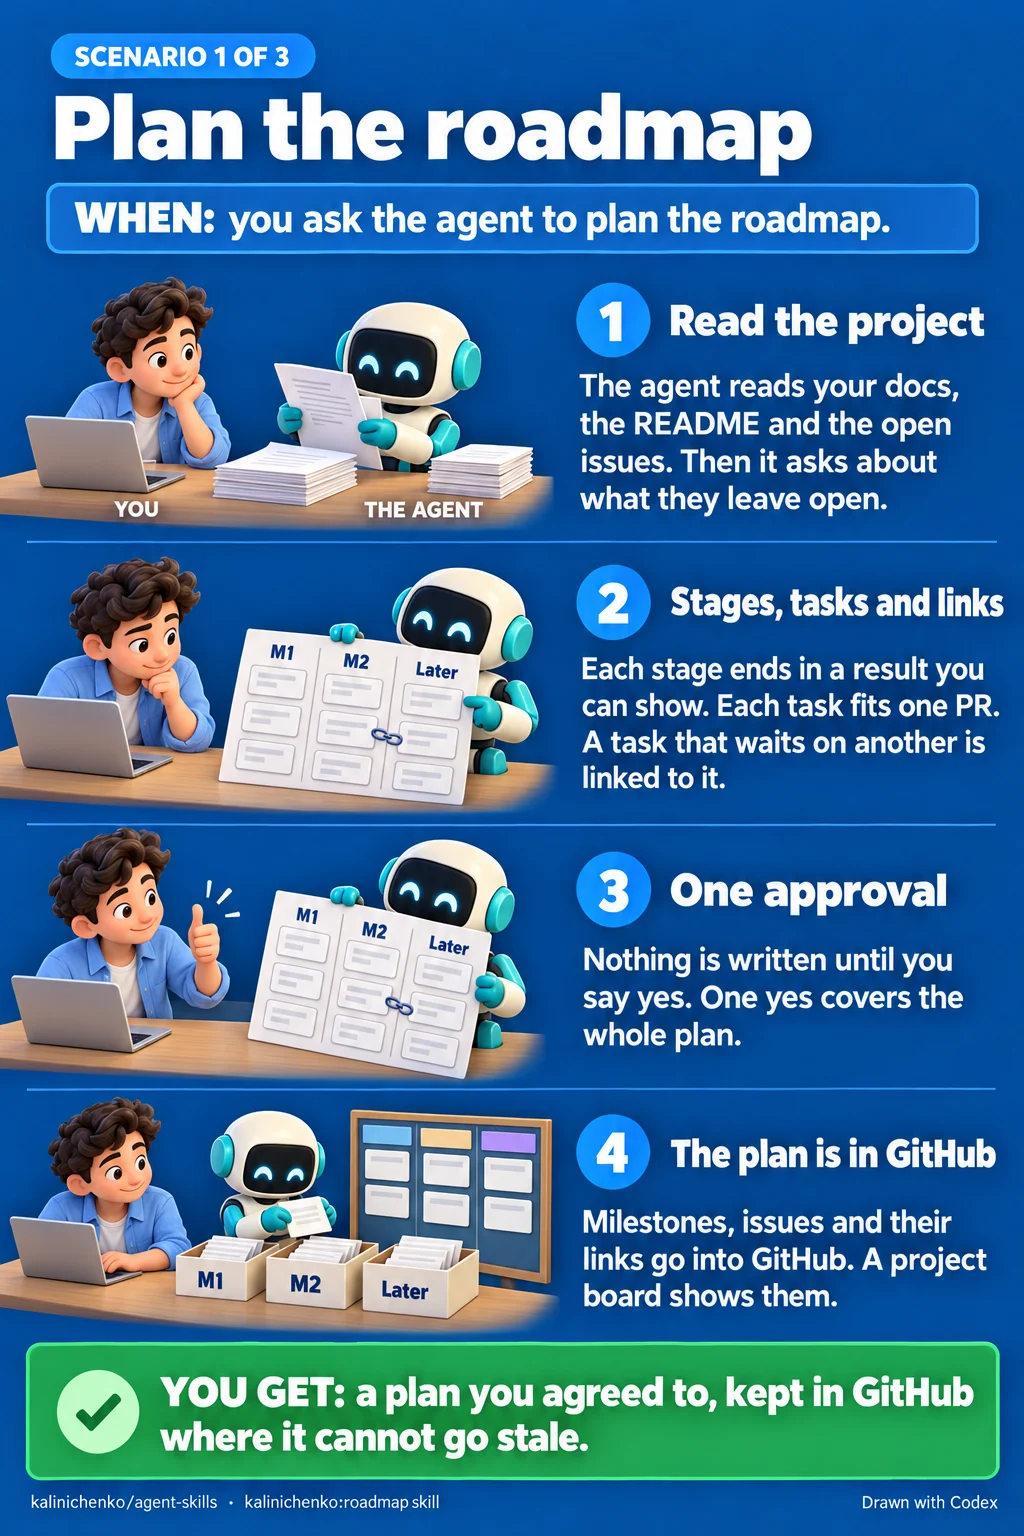
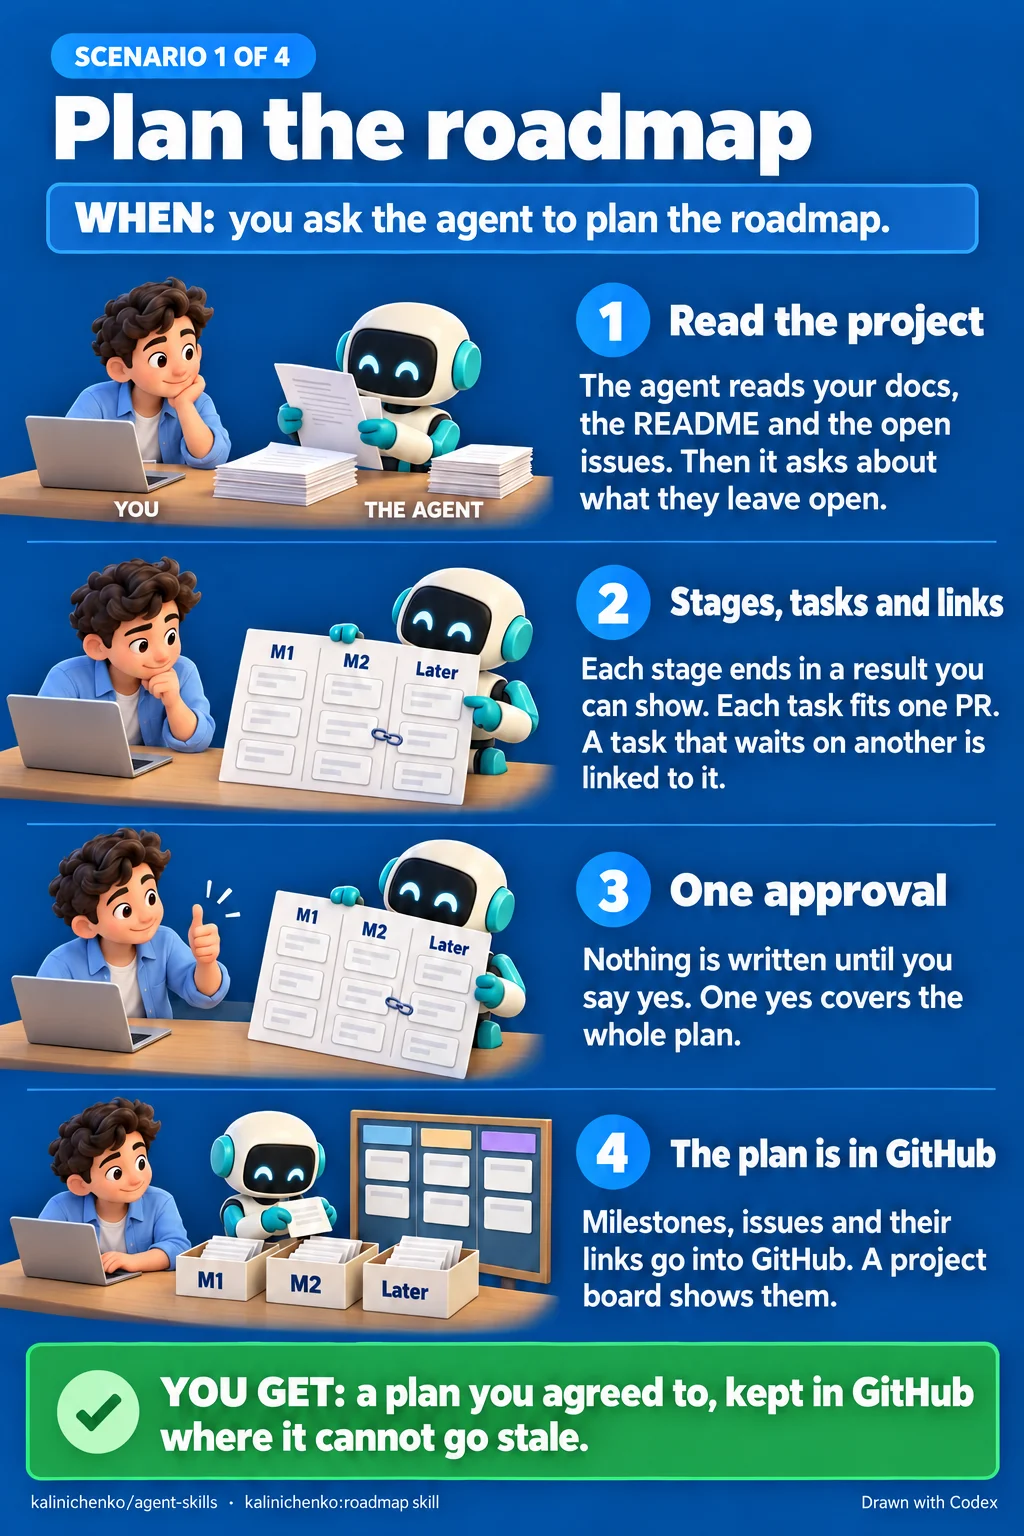
docs(roadmap): draw the triage scenario picture, and number the scenarios out of four (#111)
- Add the 04-triage scenario picture and its brief block
- Change the labels of 01-plan, 02-next and 03-close to "OF 4"
- Show the triage picture under its own heading in the roadmap README
- Promise a label to each open issue and a milestone only to a confirmed one

diff --git a/docs/roadmap/brief.md b/docs/roadmap/brief.md
@@ -30,7 +30,7 @@ Bottom line, small: "Also: a task that can wait moves to Later, and a project bo
 
 <image file="01-plan.png">
 Canvas: portrait, the largest portrait size the tool offers (at least 1024x1536).
-Header: label "SCENARIO 1 OF 3", title "Plan the roadmap".
+Header: label "SCENARIO 1 OF 4", title "Plan the roadmap".
 Trigger box: "WHEN: you ask the agent to plan the roadmap."
 1. "Read the project" — THE AGENT reads a stack of blank documents on the desk; YOU watch. Caption: "The agent reads your docs, the README and the open issues. Then it asks about what they leave open."
 2. "Stages, tasks and links" — THE AGENT shows YOU a large sheet with three columns labelled "M1", "M2" and "Later", blank tickets in each, and two tickets joined by a short chain. Caption: "Each stage ends in a result you can show. Each task fits one PR. A task that waits on another is linked to it."
@@ -41,7 +41,7 @@ Result box: "YOU GET: a plan you agreed to, kept in GitHub where it cannot go st
 
 <image file="02-next.png">
 Canvas: portrait, the largest portrait size the tool offers (at least 1024x1536).
-Header: label "SCENARIO 2 OF 3", title "Pick the next task".
+Header: label "SCENARIO 2 OF 4", title "Pick the next task".
 Trigger box: "WHEN: you ask \"What can I take now?\" or what can run in parallel." (keep the double quotation marks around the question)
 1. "Only free tasks" — THE AGENT sorts blank tickets: tickets with a small padlock or a name tag go to one side, plain ones stay in front. Caption: "Not assigned, no open PR, not blocked by an open issue. Other people's work is never offered."
 2. "Main path first" — THE AGENT lines up blank tickets in a row, the first one the largest. Caption: "The current milestone comes first. Then the tasks that more issues wait on, then the oldest."
@@ -52,13 +52,24 @@ Result box: "YOU GET: the right task to take now, and the tasks that can run bes
 
 <image file="03-close.png">
 Canvas: portrait, the largest portrait size the tool offers (at least 1024x1536).
-Header: label "SCENARIO 3 OF 3", title "Close a milestone".
+Header: label "SCENARIO 3 OF 4", title "Close a milestone".
 Trigger box: "WHEN: you ask \"What is left to close M1?\"" (keep the double quotation marks around the question)
 1. "What is left?" — THE AGENT takes a short column of blank tickets out of box "M1": one with a green dot, one with a name tag, one with a small padlock. Caption: "The open tasks of M1 in the order they must be done: free, in progress, or blocked and by what."
 2. "Can it wait? Later." — YOU nod; THE AGENT moves ticket "#30" from box "M1" into box "Later". Caption: "When you agree, the task moves to Later. If a planned task still waits on it, the agent names it and asks you."
 3. "M1 is done" — box "M1" has a large green check; THE AGENT closes its lid. Caption: "When no task is left, the agent offers to close the milestone. You decide."
 4. "Plan the next stage" — THE AGENT opens box "M2" and puts new blank tickets in it; YOU give a thumbs-up. Caption: "M2 is planned again from what M1 taught. One approval, as at the start."
 Result box: "YOU GET: a clear path to the end of M1, and the next stage ready when it closes."
+</image>
+
+<image file="04-triage.png">
+Canvas: portrait, the largest portrait size the tool offers (at least 1024x1536).
+Header: label "SCENARIO 4 OF 4", title "Triage new issues".
+Trigger box: "WHEN: you ask the agent to triage the new issues."
+1. "Which issues are new?" — THE AGENT takes three tickets, "#36", "#37" and "#38", out of a tray labelled "New"; the tickets have no tags; YOU watch. Caption: "Open issues with no label or no milestone. Nobody has checked their reports yet."
+2. "Duplicates close first" — THE AGENT clips ticket "#37" behind ticket "#36" and puts a grey stamp with no text on "#37". Caption: "#37 is the same report as #36. It closes, and what it adds is copied to #36."
+3. "A verdict for each" — THE AGENT looks at ticket "#36" through a large magnifying glass; beside it, ticket "#38" has a small speech bubble with "?"; YOU watch from the laptop. Caption: "The agent tries to reproduce each report or to find it in the code. A false one closes; an unclear one gets a question."
+4. "Label and milestone" — YOU give a thumbs-up; THE AGENT puts ticket "#36", with a small tag "bug", into box "M1"; ticket "#38" waits beside the box. Caption: "A confirmed issue goes into the milestone its importance asks for. One approval, then it all goes into GitHub."
+Result box: "YOU GET: every new issue checked, each open one labelled, and each confirmed one in a milestone."
 </image>
 
 <verification_loop>

diff --git a/skills/roadmap/README.md b/skills/roadmap/README.md
@@ -59,6 +59,10 @@ run in parallel, and what is left to close a milestone.
 
 ![Close a milestone: you get a clear path to the end of M1, and the next stage ready when it closes](../../docs/roadmap/03-close.webp)
 
+### Triage new issues
+
+![Triage new issues: you get every new issue checked, each open one labelled, and each confirmed one in a milestone](../../docs/roadmap/04-triage.webp)
+
 ## How it works
 
 Scripts in `scripts/` read the plan through the GitHub API and rank the free
